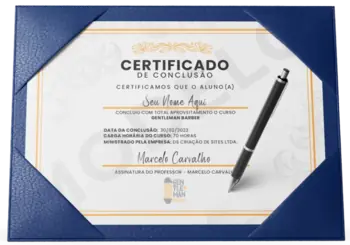
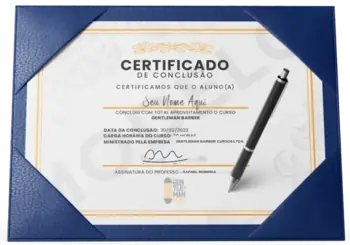
content: localiza certificado e professor (versao independente do portfolio)

Changed region(s): [[0.3714, 0.5429, 0.7143, 0.7143], [0.2857, 0.8571, 0.3429, 0.8857]]

diff --git a/src/features/landing-page/sections/professor-section.tsx b/src/features/landing-page/sections/professor-section.tsx
@@ -1,17 +1,22 @@
 const professorCopy = {
   /*
-   * Bio literal do design, incluindo os desvios de digitação dele ("marcelo"
-   * minúsculo, "as vender", o espaço antes da vírgula em "estrutura de vendas ,").
-   * É copy aprovada — não corrijo.
+   * Bio do design, **localizada para a versão independente do portfólio**. O
+   * texto original era literal do design e descrevia o personagem da referência
+   * (ex-gerente de banco, canal de YouTube de empreendedorismo, 3 milhões por
+   * mês) — credenciais que não são de um professor de barbearia e que ficariam
+   * atribuídas a um nome fictício. A localização mantém a estrutura (4
+   * parágrafos) e as **linhas renderizadas** de cada um nos dois viewports
+   * (desktop 3/3/2/2, mobile 5/5/4/3), porque a altura do bloco entra na
+   * geometria da seção.
    */
   bio: [
-    "Olá, muito prazer meu nome é marcelo Carvalho, sou formado em administração, e trabalhei como gerente no banco do brasil por 10 anos e a 5, larguei tudo para empreender.",
-    "No começo não foi fácil, quebrei muito a cabeça, joguei muito “dinheiro fora” até conseguir dominar o mercado. Hoje vivo inteiramente da minha estrutura de vendas , faturando mais de 3 milhões mensais.",
-    "Meu canal de YouTube é indiscutivelmente um dos maiores canais focados em empreendedorismo do país em número de inscritos.",
-    "Eu amo Vender Online e acredito que as vender é o melhor caminho para começar um negócio de sucesso na internet.",
+    "Olá, muito prazer, meu nome é Rafael Moreira. Sou barbeiro há 18 anos: comecei atendendo em casa, aluguei minha primeira cadeira e hoje tenho três unidades próprias.",
+    "No começo não foi fácil: faltou cliente, sobrou insegurança e eu errei muito até entender o que fideliza de verdade. Hoje vivo da agenda cheia e formo novos barbeiros.",
+    "Meu canal no YouTube é onde eu mostro, na prática, as técnicas que uso na cadeira todos os dias e as contas de uma barbearia que dá lucro.",
+    "Eu acredito que barbearia é ofício e negócio ao mesmo tempo: técnica sem gestão não paga o aluguel.",
   ],
   eyebrow: "CONHEÇA SEU PROFESSOR",
-  name: "MARCELO CARVALHO",
+  name: "RAFAEL MOREIRA",
 } as const;
 
 const BG_DESKTOP = "/media/derived/professor-bg-desktop.webp";
